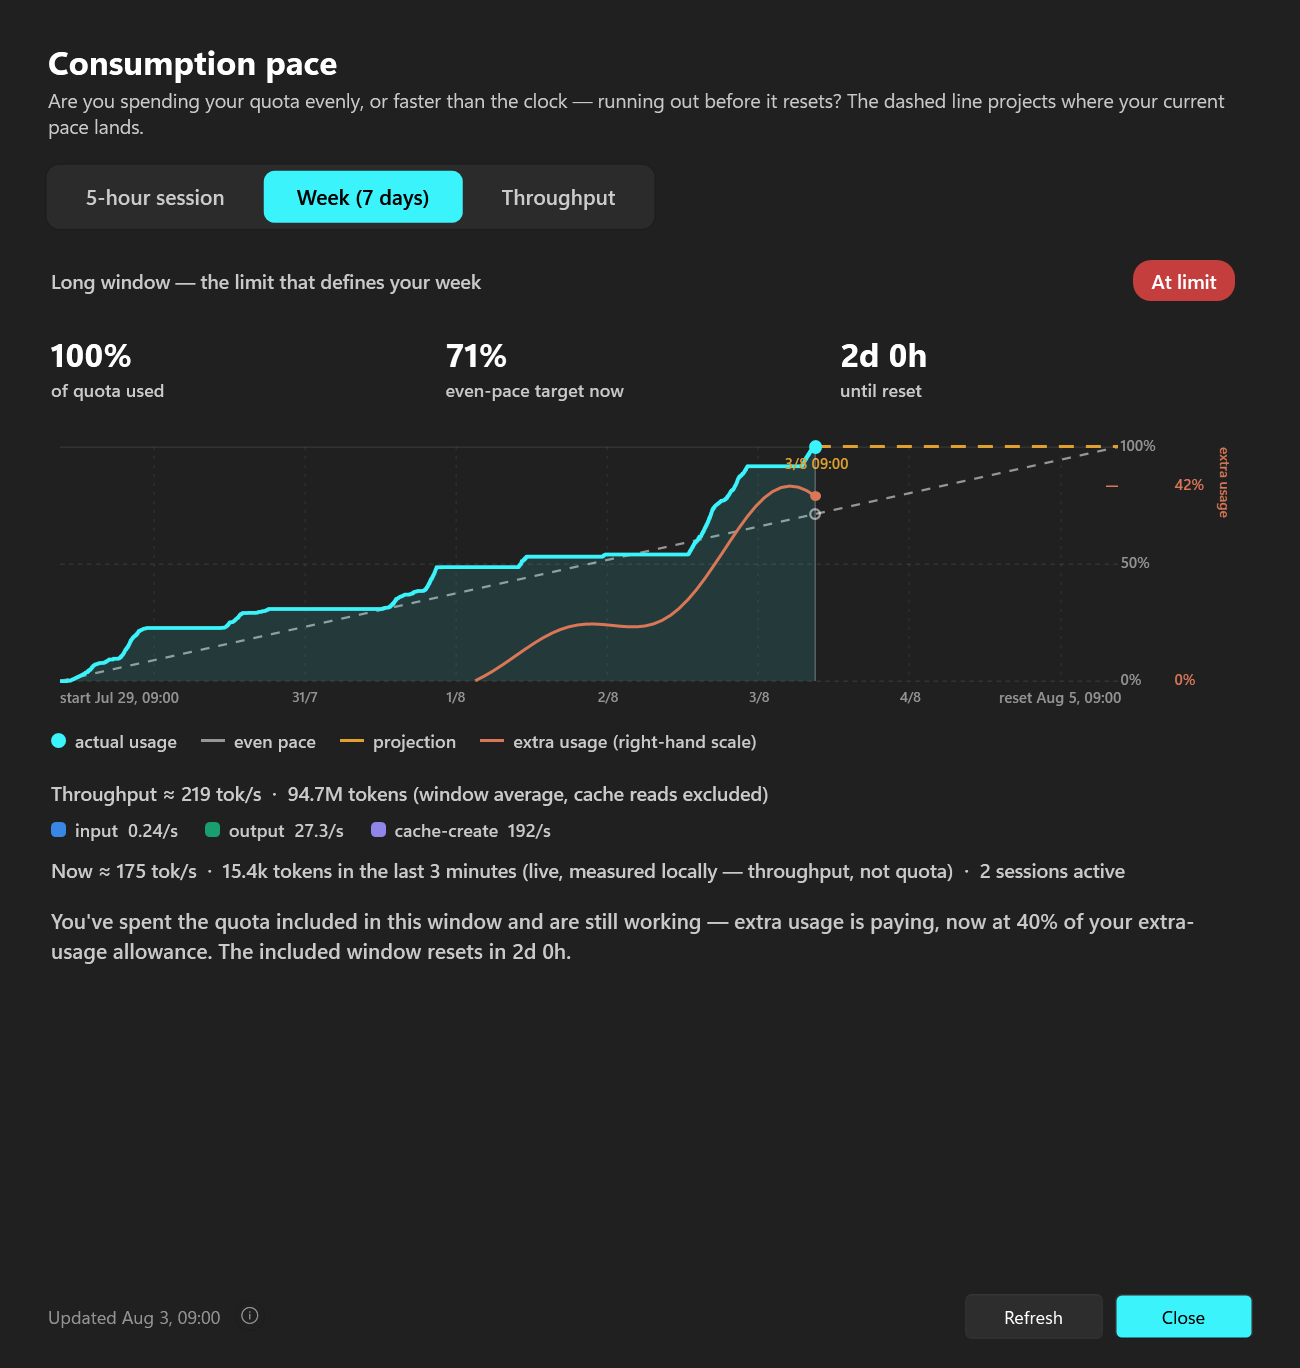
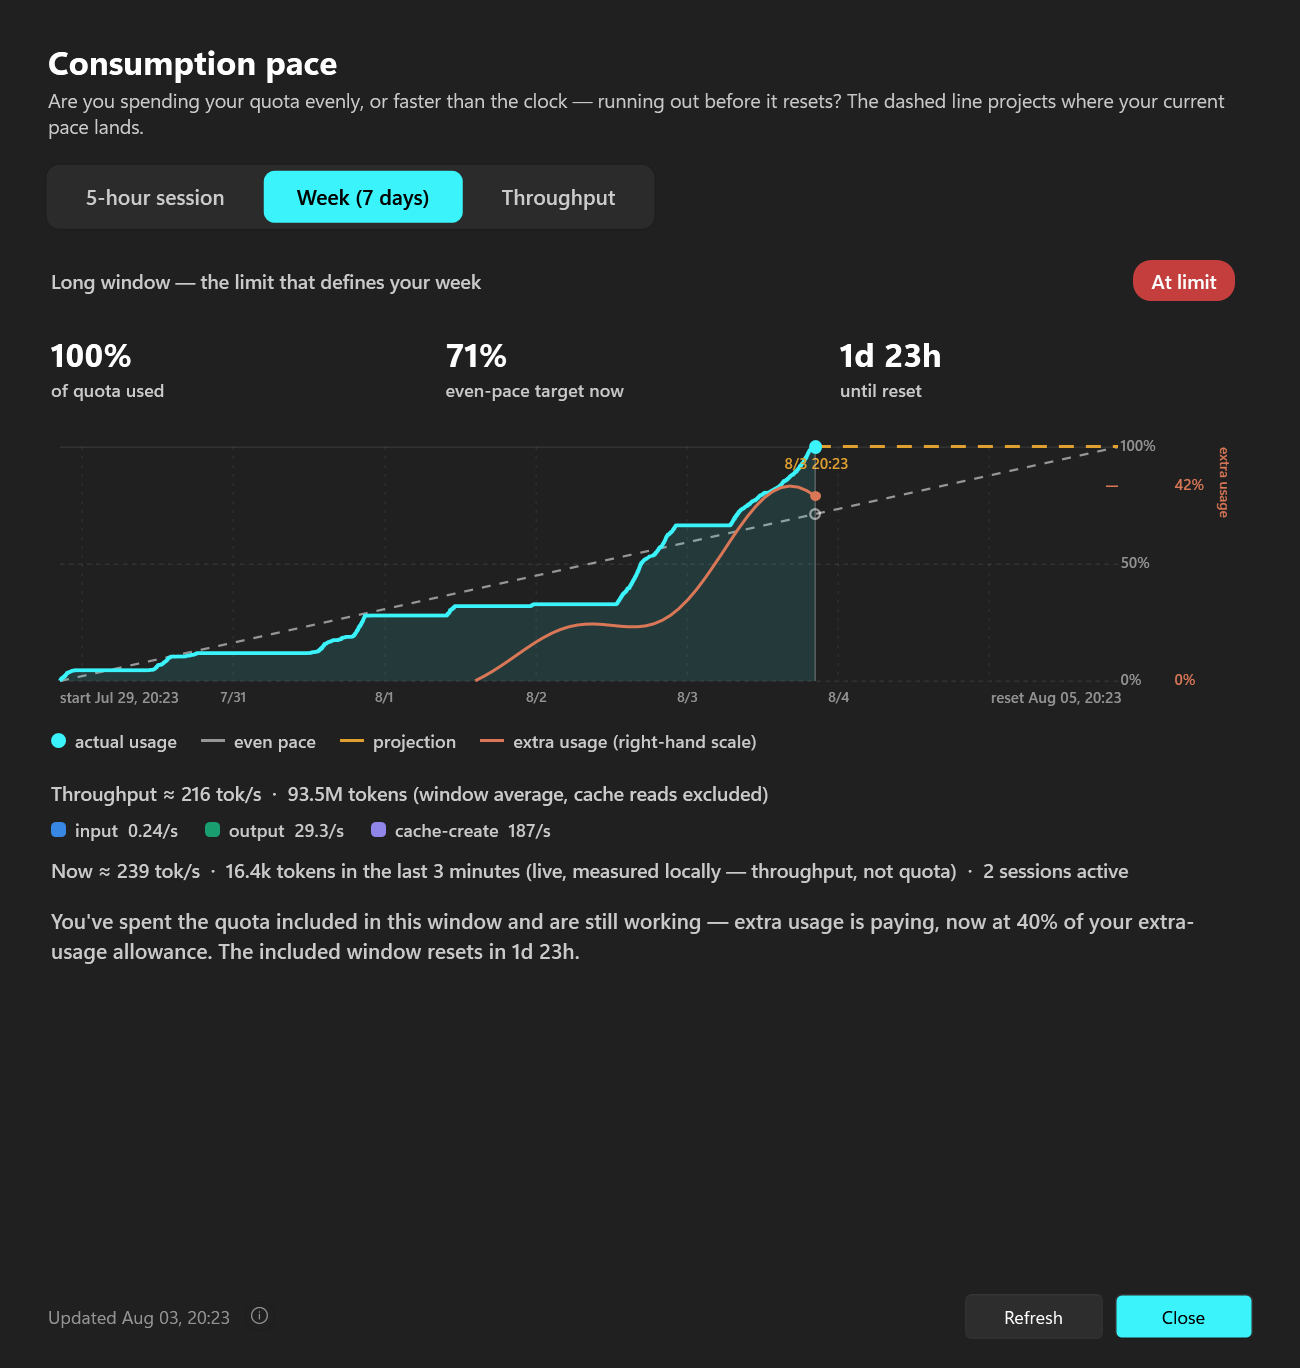
fix: the overage preview draws the state it exists for, so its screenshot can be re-taken (T264)
- This commit addresses the issue where the overage preview was not accurately reflecting the state it was meant to represent, preventing the re-taking of its screenshot.
- The logic for displaying the overage preview has been updated to ensure it produces the correct visual output even when the underlying data indicates a measured zero for overage.
- The previous implementation incorrectly gated the display on the presence of data, which led to scenarios where the preview would not show relevant information, particularly on machines with a history of zero overage.
- The changes ensure that the overage preview can now be generated correctly, allowing for consistent and accurate screenshots that reflect the current state of the system.
- Documentation has been updated to clarify the conditions under which the overage preview operates, ensuring future developers understand the intended behavior.

diff --git a/src/Cli/SelfTestCli.cs b/src/Cli/SelfTestCli.cs
@@ -168,6 +168,9 @@ internal static class SelfTestCli
         Section("map — every source file has a row, and every row a file (Block AJ)");
         FileMap();
 
+        Section("fixture — the overage preview produces the state it exists for (Block AI)");
+        OveragePreview();
+
         Section("dates — the fields are in the order the culture puts them (Block G)");
         DateOrder();
 
@@ -2103,6 +2106,55 @@ internal static class SelfTestCli
                               .OrderBy(f => f, StringComparer.Ordinal).ToArray();
         Check("and every folder it names is still there", gone.Length == 0,
               $"{string.Join(", ", gone)} — a placement rule for a folder that no longer exists");
+    }
+
+    /// <summary>
+    /// T264. The overage preview exists because an account past its included quota is a state no machine can
+    /// be put into on demand — so a preview that quietly declines to produce it is worse than none, and that
+    /// is what it had become. Its guard was <c>ExtraCurve.Count &gt; 0</c>, and the list is non-empty on any
+    /// machine whose history holds a <b>measured zero</b> for overage, which is most of them (T179 writes one
+    /// whenever the header was present). So the demo bailed, the real series scaled to nothing, the chart's
+    /// <c>hasExtra</c> was false, and <c>--stats overage</c> drew an ordinary week with no second axis. It is
+    /// why <c>docs/statistics-overage.png</c> could not be re-taken: it was captured before that history
+    /// existed.
+    ///
+    /// <para>Asserted on the seam itself rather than through a rendered page: the three states it has to
+    /// tell apart are a curve of measured zeros, a curve with a real maximum, and no window at all — and
+    /// the first is the one every machine is in and the one that was wrong.</para>
+    /// </summary>
+    private static void OveragePreview()
+    {
+        static WindowPace Week()
+        {
+            var w = new WindowPace { HasWindow = true, WindowSeconds = 7 * 86400, ElapsedSeconds = 4 * 86400 };
+            w.Util = 1.0;
+            return w;
+        }
+
+        // The state every machine with overage headers is in: readings on file, every one of them zero.
+        WindowPace measuredZeros = Week();
+        for (int i = 0; i <= 10; i++) measuredZeros.ExtraCurve.Add((i / 10.0 * 0.57, 0.0));
+        StatisticsPage.FillDemoOverage(measuredZeros);
+        Check("a curve of measured zeros is filled, so the preview draws the state it is for",
+              measuredZeros.ExtraMax > 0, $"ExtraMax {measuredZeros.ExtraMax}, {measuredZeros.ExtraCurve.Count} points");
+        Check("and the zeros are replaced rather than drawn under it",
+              measuredZeros.ExtraCurve.All(p => p.val > 0 || p.frac > 0),
+              "a flat line of real zeros left in front of the demo climb means two things at once");
+
+        // A real spell must be left exactly alone — the seam is for the absence, not for overwriting.
+        WindowPace real = Week();
+        real.ExtraCurve.Add((0.30, 0.10));
+        real.ExtraCurve.Add((0.60, 0.42));
+        real.ExtraMax = 0.42;
+        StatisticsPage.FillDemoOverage(real);
+        Check("a real overage series is untouched", real.ExtraCurve.Count == 2 && real.ExtraMax == 0.42,
+              $"{real.ExtraCurve.Count} points, max {real.ExtraMax}");
+
+        // No window is nothing to draw on, and inventing a series over it would be a chart about nothing.
+        var noWindow = new WindowPace();
+        StatisticsPage.FillDemoOverage(noWindow);
+        Check("and a window that does not exist gets no series",
+              noWindow.ExtraCurve.Count == 0 && noWindow.ExtraMax == 0);
     }
 
     /// <summary>

diff --git a/src/Ui/StatisticsPage.xaml.cs b/src/Ui/StatisticsPage.xaml.cs
@@ -367,9 +367,22 @@ internal partial class StatisticsPage : System.Windows.Controls.UserControl
 
     /// <summary>The shape of a week that ran out mid-way and kept working: flat nothing until the quota is
     /// spent, then a climb that does not stop at the ceiling because it is not measured against one.</summary>
-    private static void FillDemoOverage(WindowPace w)
+    /// <remarks>
+    /// <b>Gated on there being nothing to scale, not on the list being empty</b> (T264). The list is
+    /// non-empty on any machine whose history holds a <em>measured zero</em> for overage — which is most of
+    /// them, since <c>UsageHistory</c> writes <c>ux</c> whenever the header was present and 0 is a reading
+    /// (T179). So the old guard bailed, the real series had <c>ExtraMax == 0</c>, the chart's own
+    /// <c>hasExtra</c> was false, and <c>--stats overage</c> drew a week with no second axis and no clay
+    /// series: the preview whose entire reason for existing is a state no machine can be put into, silently
+    /// showing the state every machine is already in. It is how <c>docs/statistics-overage.png</c> became a
+    /// picture nothing could re-take — it was captured where that history did not exist yet.
+    /// <para>An all-zero curve is also replaced rather than appended to, or the demo would draw its climb
+    /// on top of a flat line of real zeros and mean two things at once.</para>
+    /// </remarks>
+    internal static void FillDemoOverage(WindowPace w)
     {
-        if (!w.HasWindow || w.ExtraCurve.Count > 0) return;
+        if (!w.HasWindow || w.ExtraMax > 0) return;
+        w.ExtraCurve.Clear();
         // Relative to how much of the window has actually elapsed, not an absolute fraction: the preview
         // is only ever as wide as "now", so a fixed onset past it produces an empty series and a chart
         // that silently draws nothing.

diff --git a/CHANGELOG.md b/CHANGELOG.md
@@ -51,7 +51,7 @@
 | [AF](#block-af--six-surfaces-shipped-and-what-nothing-was-checking) | Six surfaces shipped, and what nothing was checking |
 | [AG](#block-ag--the-interaction-check-grew-two-cases-and-nobody-runs-it) | The interaction check grew two cases, and nobody runs it |
 | [AH](#block-ah--what-block-afs-own-captures-turned-up) | What Block AF's own captures turned up |
-| [AI](#block-ai--verification--the-checks-that-prove-a-change) | Verification — the checks that prove a change (active — see ROADMAP) |
+| [AI](#block-ai--verification--the-checks-that-prove-a-change) | Verification — the checks that prove a change |
 | [AJ](#block-aj--working-here--the-repos-own-docs-and-flags) | Working here — the repo's own docs and flags |
 
 ## Block A — Foundation (tray, icon, API, projection)
@@ -578,6 +578,7 @@
 - **T259** — The five scripts carrying prose now carry a UTF-8 mark, so PowerShell 5.1 reads them as written instead of in the ANSI code page - where a dash inside a string arrives as a smart quote that closes it and the script does not parse at all. The rule is a check rather than a memory, and it is stated as the property and not as the fix: ASCII, or marked, which accepts a pure-ASCII script needing nothing and rejects the state that produced the defect - five of six files, every one with prose in it and none of them marked.
 - **T260** — A code this build does not ship is refused with the catalogue and exit 1, and so is the flag with no code after it - the same rule and the same shape as --sample-env ten lines below it, which has always had it. It is the flag the i18n verification loop rests on, so falling through to the machine language meant a capture of the wrong one under the name the caller gave, with nothing saying so. Matched exactly, so EN and pt_BR are refusals; auto is accepted, because asking for the OS language out loud is a request. The setting is untouched: an unknown saved preference still falls back, which is what IsValidPreference guards.
 - **T262** — A page or destination name this build does not have prints the ones it does and exits 1, at all four entry points that read one - so a capture no longer lands a picture of General under the name the caller chose while saying wrote about it, and the file is not created at all. Naming nothing still opens the default, because that is a request and not a typo. The names are declared once each and the checks sweep those declarations in both directions, plus the other end nobody had asserted: every page name is a tag the sidebar actually carries, or it would select nothing.
+- **T264** — The overage preview produces the state it exists for again, and the screenshot it publishes can be re-taken. The seam was gated on the curve being empty, and it is never empty on a machine whose history holds a measured zero for overage - which is most of them - so the demo declined, the series scaled to nothing, and the flag drew an ordinary week with no second axis. Gated on there being nothing to scale instead, and the zeros are replaced rather than drawn under the climb. Checked on the seam over the three states it has to tell apart, the one every machine is in included.
 
 ## Block AJ — Working here — the repo's own docs and flags
 

diff --git a/IMPROVEMENTS.md b/IMPROVEMENTS.md
@@ -216,29 +216,6 @@ controls asserted on three. None of them ever went red. That is why the exit cod
 degraded run from a clean one, and why an assertion that could have run and did not is named and
 counted rather than mentioned.
 
-### XX.28 The screenshot nobody can re-take
-
-Found while regenerating the published captures for T263, which changed what every date on that
-chart reads like. Three of the four re-took cleanly with the documented command. The fourth did not:
-`docs/statistics-overage.png` shows `actual usage - even pace - projection - extra usage (right-hand
-scale)`, and `--capture-stats <base> overage --sample` and `--capture-stats <base> overage` both
-produce the same chart with three legend entries and no right-hand scale. Same size, same layout,
-one legend entry short.
-
-So the state T183 published is one nothing in the catalogue reproduces. It was not overwritten with
-a picture of a different state, which leaves the repository with a published screenshot whose day
-dividers still read 3/8 for 3 August - the defect T263 fixed everywhere it could re-take.
-
-This is the gap next to T250, which asserts that every image either surface points at exists and
-that every screenshot in `docs/` is shown by one of them. Existing is not the same as being
-reproducible, and a screenshot nobody can re-take is one that silently ages past whatever it
-documents - which is exactly the argument T214 made for `--capture-tooltip` when `docs/tooltip.png`
-had gone a release out of date.
-
-Two things to find out, in order: which flag combination or reading actually produces the overage
-series on that chart, and then whether a capture whose command is not recoverable should be a red
-build the way an absent image already is.
-
 ## XXI Numbers in prose — one convention, or a stated split (Block G)
 
 Two surfaces of this app answer the same question differently, and T167's sweep reaches only one of

diff --git a/ROADMAP.md b/ROADMAP.md
@@ -63,8 +63,6 @@
 
 ## Block AI — Verification — the checks that prove a change
 
-- 📋 **T264** (deps: —) **A published screenshot cannot be regenerated from the flags the catalogue documents** — statistics-overage.png carries a legend entry - the right-hand extra-usage scale - that the overage variant produces neither with the fixture nor without, so a change to it cannot be re-taken. → §XX.28
-
 ## Block AJ — Working here — the repo's own docs and flags
 
 ## Block G — Localization
